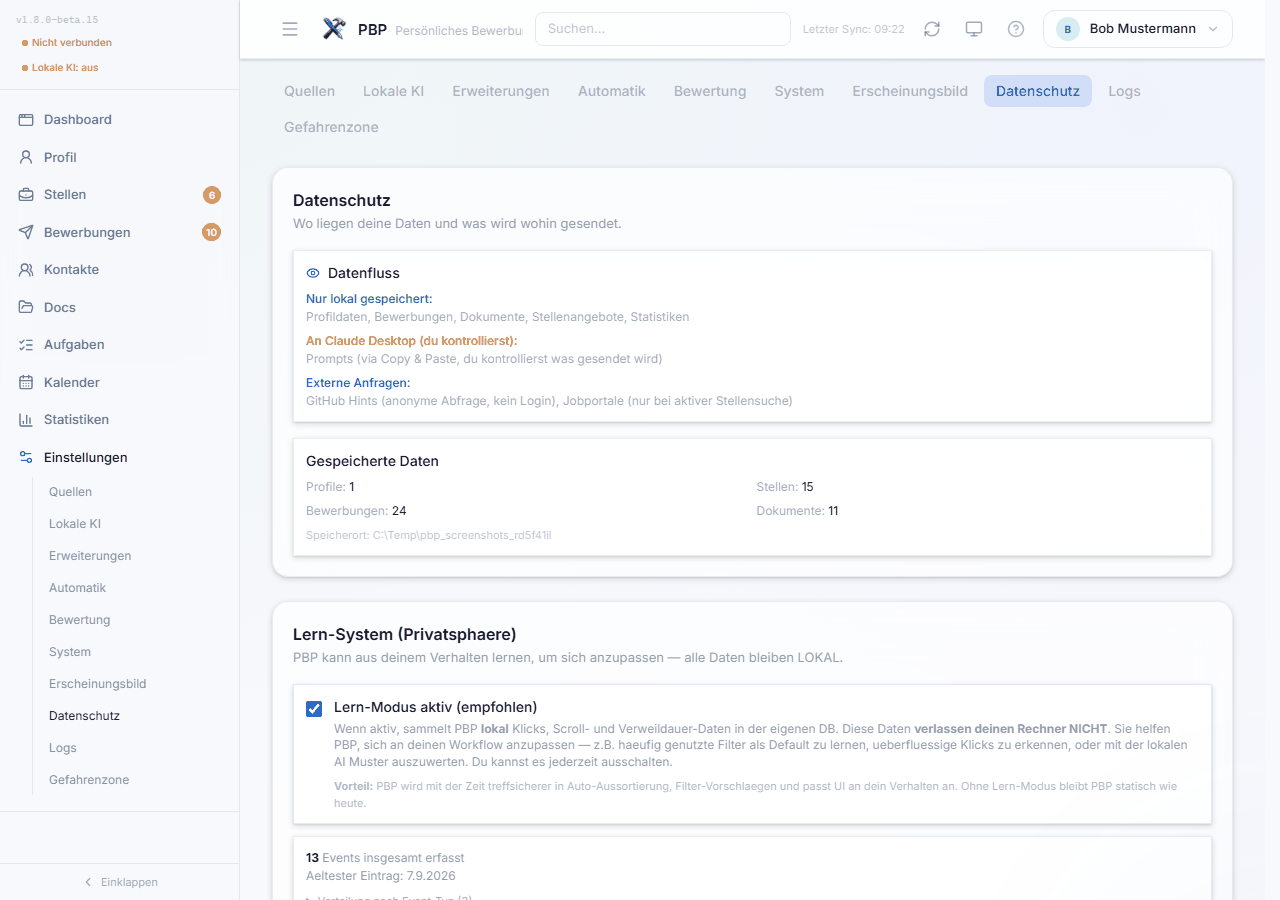
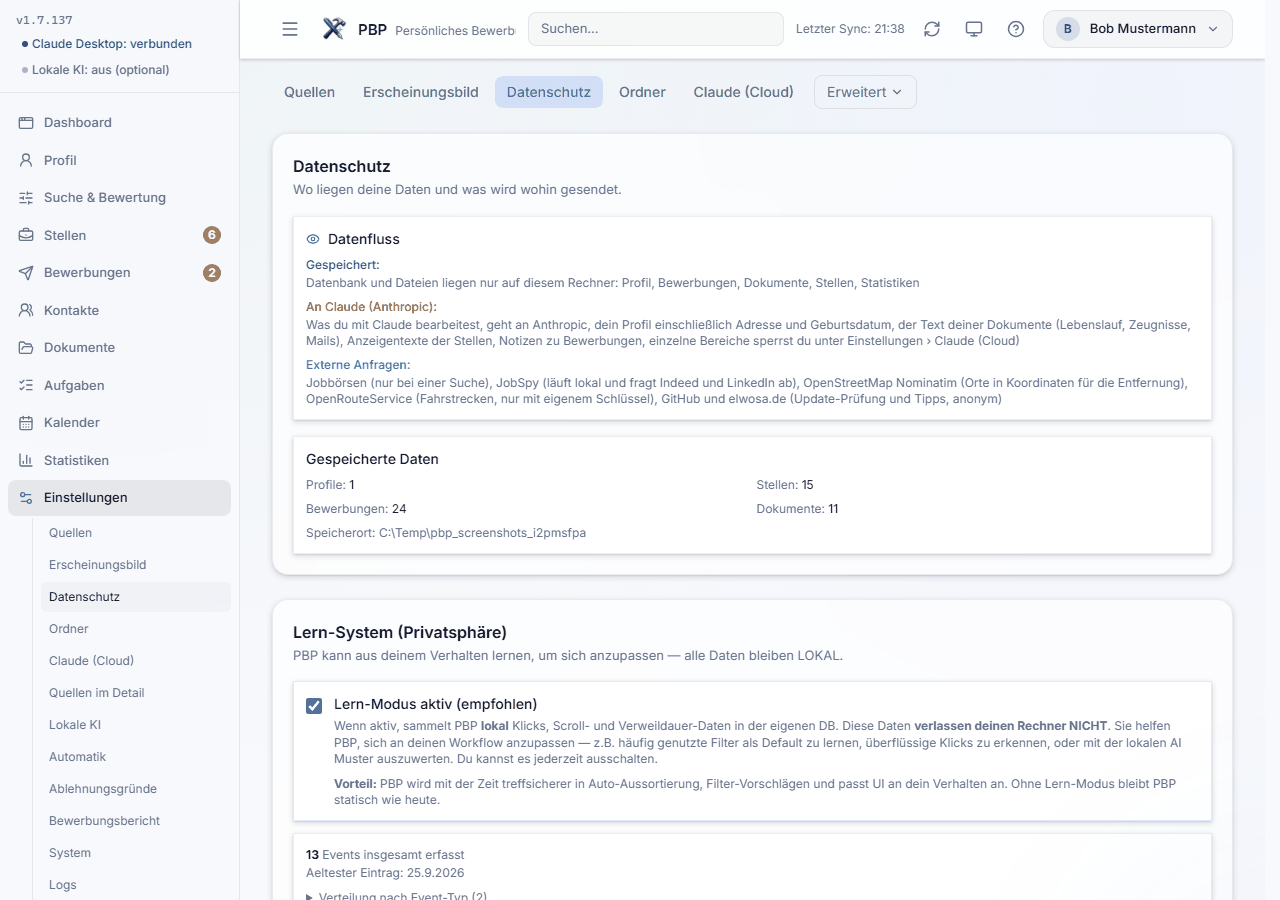
chore: v1.7.137 — Lesbar fuer alle (#1087 Welle 7), Screenshots aus dem verbundenen Stable-Stand

diff --git a/src/bewerbungs_assistent/__init__.py b/src/bewerbungs_assistent/__init__.py
@@ -1,6 +1,6 @@
 """Bewerbungs-Assistent - KI-gestützter MCP Server für Claude Desktop."""
 
-__version__ = "1.7.136"
+__version__ = "1.7.137"
 
 
 def main():

diff --git a/CHANGELOG.md b/CHANGELOG.md
@@ -33,6 +33,96 @@ Sektionen: **Added** (neue Features), **Changed** (bestehendes geändert),
 > und in den Eintraegen selbst dokumentiert. Seitdem gilt DoD-Punkt 9:
 > Scrub-Pflicht vor JEDEM GitHub-Text, Loeschen statt Editieren.
 
+## [1.7.137] - 2026-09-25 — Lesbar für alle
+
+Siebte und letzte Welle aus dem UX-Review #1087: heller Modus,
+Bedienung ohne Maus und eine Doku ohne Widersprüche. Kein
+Schema-Eingriff; eigene Farben im Theme-Editor bleiben, wie sie sind.
+
+### Changed
+
+- **Lesbar im hellen und im dunklen Modus** (#1087 G71). Jede
+  Farbvoreinstellung erreicht für Lesetext auf allen Flächen mindestens
+  4,5:1 — im hellen Modus waren Akzentfarben und abgeschwächter Text
+  darunter. Suche, Auswahllisten, Menüs und Diagramm-Hinweise nehmen
+  ihre Fläche aus dem Farbschema statt aus festen dunklen Werten; Rahmen
+  und Hinterlegungen sind im hellen Modus sichtbar. Schrift ist
+  mindestens 12 px groß (Abzeichen ausgenommen).
+- **Bedienung mit Tastatur und Bildschirmleser** (#1087 G71). Dialoge
+  sind als Dialog ausgezeichnet, halten den Fokus, schließen mit Escape
+  und geben den Fokus zurück. Hinweise werden vorgelesen. Knöpfe mit
+  Symbol tragen einen Namen, Aktionen erscheinen nicht erst beim
+  Überfahren mit der Maus. Auswahlfelder lassen sich mit Pfeiltasten,
+  Pos1/Ende, Enter und Escape bedienen.
+- **Suche auf dem Handy** (#1087 G71). Unter 768 px Breite öffnet das
+  Lupen-Symbol oben die Suche.
+- **Kein einsamer Pfeil auf dem Dashboard.** Ein Bereich, der gerade
+  nichts zu zeigen hat, zeigt auch keinen Einklapp-Griff. Die Begründung
+  der Quellen-Empfehlung steht mit Umlauten.
+- **Doku ohne Widersprüche** (#1087 L13). Version und Testzahl stehen im
+  README nur noch im Kopf; was sich geändert hat, steht unter Releases.
+  Der Datenschutz-Satz ist präzise (gespeichert wird lokal, was du mit
+  Claude bearbeitest, geht an Anthropic). Die Erste-Schritte-Anleitung
+  nennt keine Börsen mehr, die gerade nicht liefern, und Kennungen im
+  echten Format. Im Wiki steht „Einstieg“ zuerst; die Plan-Seiten
+  stehen unter „Für Entwickler“. Neue Screenshots aus dem verbundenen
+  Stable-Stand.
+
+### Gemessen
+
+Gegenprobe: 21 Mechanismen, jeder einzeln ausgebaut, jeder macht einen
+Test rot.
+
+## 📦 Wie installiere oder aktualisiere ich PBP?
+
+**Unter Windows** brauchst du kein Git, kein Python, kein Vorwissen — nur einen ZIP-Download und einen Doppelklick. **Unter macOS** muss vorher einmalig Python 3.11+ installiert sein (siehe unten), **unter Linux** Git und Python. Voraussetzung ueberall: [Claude Desktop](https://claude.ai/download) ist installiert (Linux: alternativ Claude Code CLI).
+
+### Windows (empfohlen, bequemster Weg)
+
+1. **ZIP herunterladen:** [PBP-1.7.137.zip](https://github.com/MadGapun/PBP/archive/refs/tags/v1.7.137.zip)
+2. **Entpacken:** Rechtsklick auf die ZIP → *„Alle extrahieren..."* → Zielordner waehlen (z.B. `C:\PBP`). Darin liegt ein Unterordner `PBP-...` — dort hinein wechseln.
+3. **Installieren:** Doppelklick auf **`INSTALLIEREN.bat`**
+4. Das Setup laedt Python, alle Pakete und Chromium herunter (~3–5 Minuten) und konfiguriert Claude Desktop.
+5. Auf dem Desktop liegt jetzt eine Verknuepfung **„PBP Bewerbungs-Portal"** — Doppelklick startet das Dashboard.
+6. **Claude Desktop oeffnen** (lief es schon: komplett beenden — Rechtsklick aufs Claude-Symbol unten rechts in der Taskleiste → *Beenden* — und neu starten) und tippen: **„Starte die Ersterfassung"**
+7. Taucht PBP nicht auf: Claude Desktop nochmal komplett beenden und neu starten — siehe [FAQ](https://github.com/MadGapun/PBP/wiki/FAQ).
+
+### macOS
+
+1. **Einmalig vorab: Python 3.11+** — am einfachsten der [Installer von python.org](https://www.python.org/downloads/) (Doppelklick), alternativ `brew install python@3.12`
+2. **ZIP herunterladen** (siehe Windows-Link) und **entpacken** (Doppelklick; im ZIP liegt ein Unterordner `PBP-...`)
+3. **Doppelklick auf `INSTALLIEREN.command`**
+4. Falls macOS warnt („kann nicht geoeffnet werden"): Rechtsklick auf die Datei → *„Oeffnen"* → nochmal *„Oeffnen"*
+
+### Linux
+
+```bash
+git clone https://github.com/MadGapun/PBP.git
+cd PBP
+bash installer/install.sh
+```
+
+### Update von einer aelteren Version
+
+**Einfach drüberinstallieren** — deine Daten bleiben erhalten:
+- Windows: `%LOCALAPPDATA%\BewerbungsAssistent\data\pbp.db`
+- macOS/Linux: `~/.bewerbungs-assistent/pbp.db`
+
+Schema-Upgrade läuft automatisch beim ersten Start, ein Backup wird vorher erstellt (Ordner `data\backups\`).
+
+### Detaillierte Anleitung & Troubleshooting
+
+📖 [Wiki → Installation](https://github.com/MadGapun/PBP/wiki/Installation) · [FAQ](https://github.com/MadGapun/PBP/wiki/FAQ)
+
+
+
+
+
+
+
+
+---
+
 ## [1.7.136] - 2026-09-25 — Wo was steht
 
 Sechste Welle aus dem UX-Review #1087: Einstellungen, Profil, Hilfe,

diff --git a/README.md b/README.md
@@ -13,7 +13,7 @@ PBP ist mehr als eine Excel-Liste, in der drei Monate später niemand mehr weiß
 
 ![PBP-Dashboard — Bewerbungen, Termine und der nächste sinnvolle Schritt auf einen Blick](docs/screenshots/01_dashboard.png)
 
-Aktuelle Version **v1.7.136** · letztes Release am 25. September 2026 · 5352 automatische Tests · wöchentliche Releases
+Aktuelle Version **v1.7.137** · letztes Release am 25. September 2026 · 5378 automatische Tests · wöchentliche Releases
 
 Es ist gemacht für den deutschsprachigen Raum. Wer gerade keine Bewerbung schreiben muss, braucht es nicht. Wer eine schreibt, wird es vermutlich mögen.
 
@@ -21,8 +21,8 @@ Es ist gemacht für den deutschsprachigen Raum. Wer gerade keine Bewerbung schre
 
 > **🌍 Note for international users:** PBP currently supports the **German-speaking job market (DACH region)** only. All tools, workflows, job portals, and UI are in German — see the [English overview](README.en.md). Interested in support for your country? [Open an issue!](https://github.com/MadGapun/PBP/issues)
 
-[![Stable](https://img.shields.io/badge/Stable-v1.7.136-brightgreen.svg)](https://github.com/MadGapun/PBP/releases/latest)
-[![Tests](https://img.shields.io/badge/Tests-5352-brightgreen.svg)](https://github.com/MadGapun/PBP/actions)
+[![Stable](https://img.shields.io/badge/Stable-v1.7.137-brightgreen.svg)](https://github.com/MadGapun/PBP/releases/latest)
+[![Tests](https://img.shields.io/badge/Tests-5378-brightgreen.svg)](https://github.com/MadGapun/PBP/actions)
 [![MCP](https://img.shields.io/badge/MCP-Claude_Desktop-orange.svg)](https://modelcontextprotocol.io/)
 [![License: MIT](https://img.shields.io/badge/License-MIT-green.svg)](LICENSE)
 [![Plattformen](https://img.shields.io/badge/Plattformen-Windows_%7C_macOS_%7C_Linux-blue.svg)](#schnellstart)
